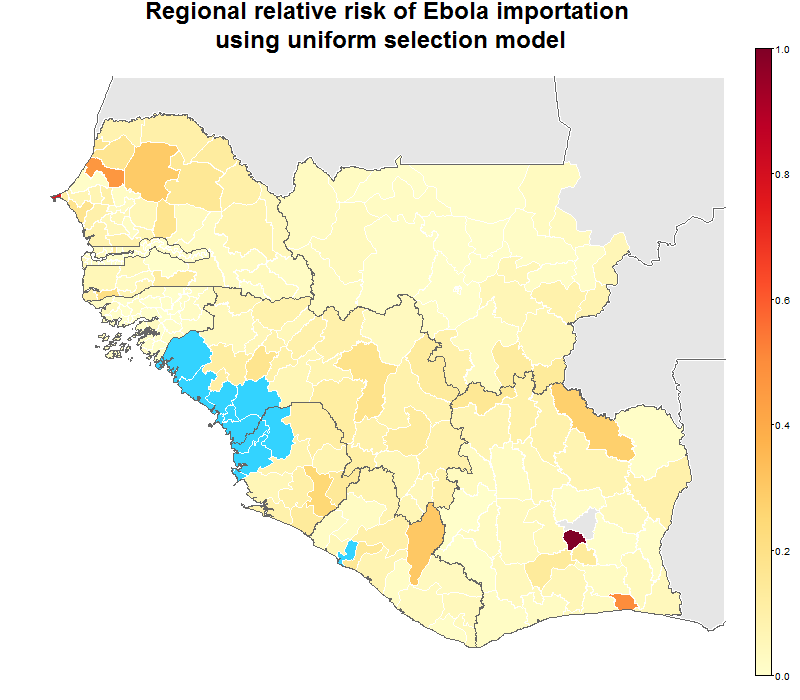
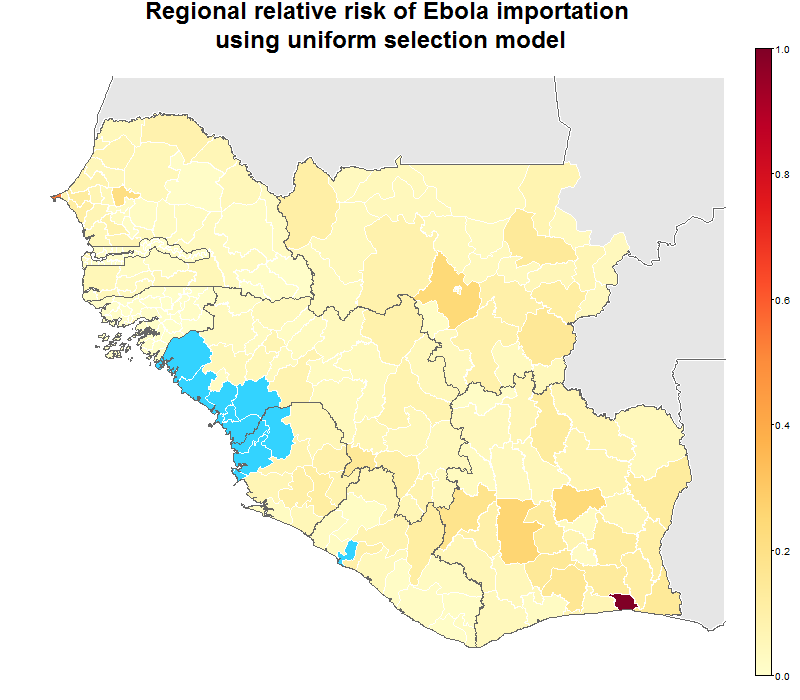
Fix maps by using correct adjacency data

diff --git a/local-risk.md b/local-risk.md
@@ -11,9 +11,7 @@ The aim of this analysis is to produce a regional, district level metric of the 
 
 [Risk-doc]: http://seeg-oxford.github.io/ebola-spread/local-risk-doc
 
-### Latest data as of 26 March 2015
-
-#### Note: The Bélier and Moronou regions of Côte d'Ivoire are currently being predicted incorrectly, hence the gray region in that area. This is being corrected.
+### Latest data as of 30 March 2015
 
 <a href="images/regional_prediction_radsel_france_large.png"><img src="images/regional_prediction_radsel_france.png" /></a>
 Predicted relative risk of importation of EVD cases from districts with reported cases in the last <b>21</b> days using the radiation with selection model. Dark red indicates higher risk of importation. Note that this does not represent a prediction of the number of new cases being reported in the future. Districts with reported cases are coloured blue to prevent skew.

diff --git a/global-risk.md b/global-risk.md
@@ -11,7 +11,7 @@ The aim of this analysis is to produce a global, national-level metric of the re
 
 [Risk-doc]: http://seeg-oxford.github.io/ebola-spread/risk-doc
 
-### Latest data as of 26 March 2015
+### Latest data as of 30 March 2015
 
 <a href="images/global_Overall_prediction_large.png"><img src="images/global_Overall_prediction.png" /></a>
 Predicted relative risk of importation of EVD cases from countries with reported cases in the last <b>21</b> days using the overall model. Dark red indicates higher risk of importation. Note that this does not represent a prediction of the number of new cases being reported in the future. Core countries are coloured blue to prevent skew.
